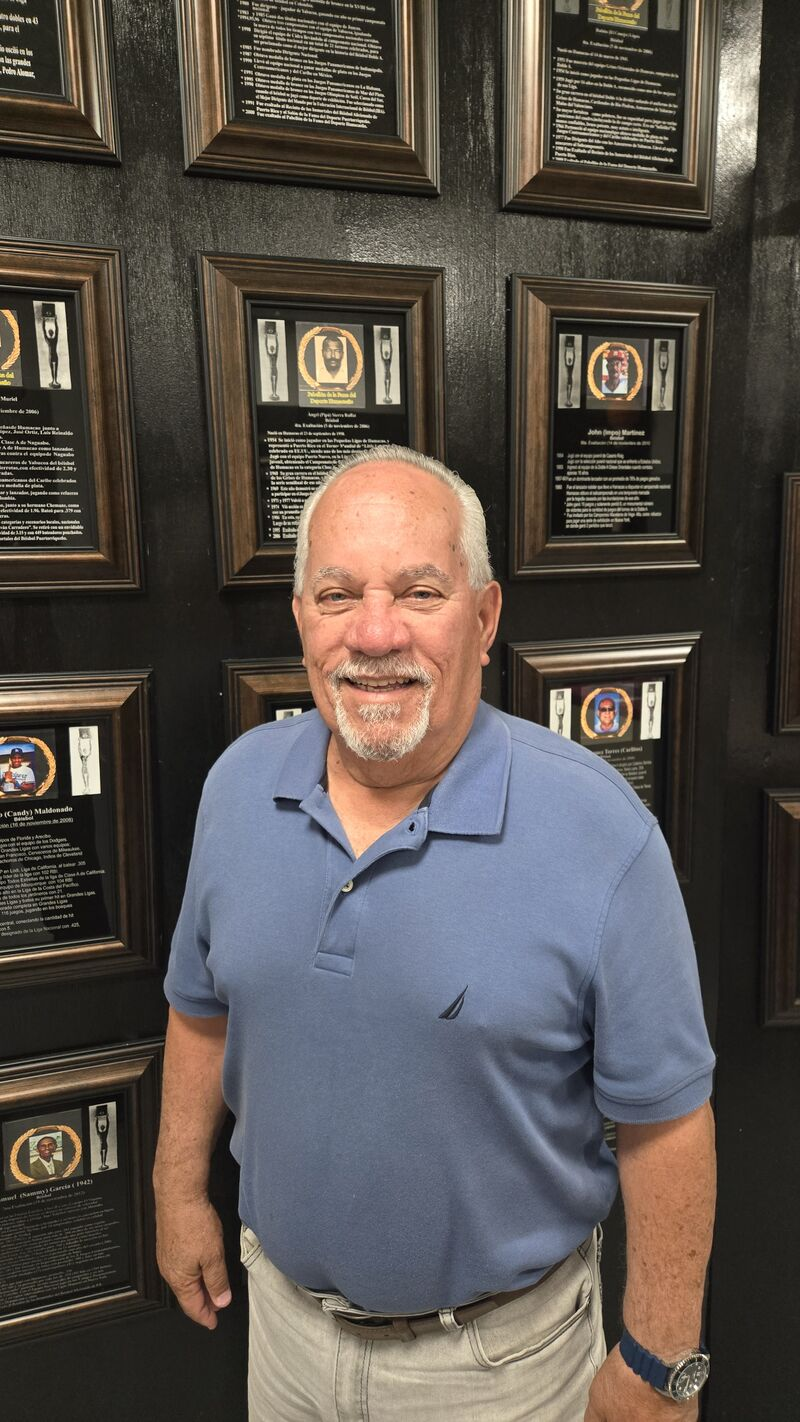
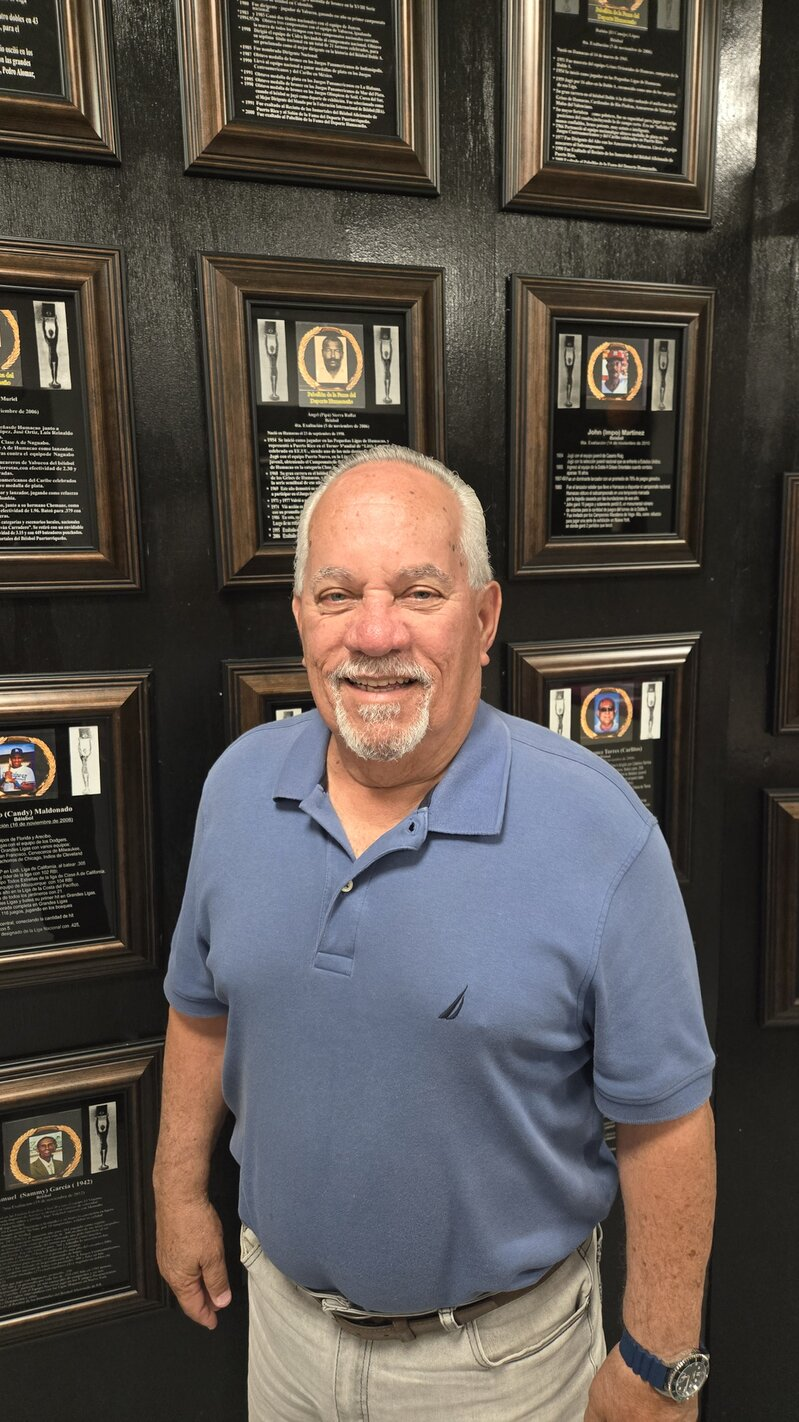
fix: centralized all member's head shot

diff --git a/src/app/junta/page.tsx b/src/app/junta/page.tsx
@@ -31,7 +31,7 @@ const miembrosJunta: MiembroJunta[] = [
       "Líder visionario con amplia experiencia en la gestión deportiva y comunitaria de Humacao.",
     anosServicio: "2016 - Presente",
     foto: "/images/junta/enrique-torres.jpg",
-    fotoPosition: "center 8%",
+    fotoPosition: "center 12%",
     contribuciones: [
       "Modernización de las operaciones del PFDH",
       "Expansión de programas educativos",
@@ -46,7 +46,7 @@ const miembrosJunta: MiembroJunta[] = [
       "Responsable de mantener los registros oficiales y la documentación del pabellón.",
     anosServicio: "2004 - Presente",
     foto: "/images/junta/miriam-lasanta.jpg",
-    fotoPosition: "center 55%",
+    fotoPosition: "center 58%",
     contribuciones: [
       "Coordinación de eventos especiales",
       "Desarrollo de programas educativos",
@@ -61,6 +61,7 @@ const miembrosJunta: MiembroJunta[] = [
       "Historiador y cronista del deporte humacaeño, custodio de la memoria deportiva.",
     anosServicio: "1999 - Presente",
     foto: "/images/junta/felix-baez.jpg",
+    fotoPosition: "center 5%",
     contribuciones: [
       "Fundador y miembro original de la primera junta",
       "Autor de múltiples investigaciones deportivas",
@@ -75,7 +76,7 @@ const miembrosJunta: MiembroJunta[] = [
       "Administrador financiero responsable de la gestión económica del pabellón.",
     anosServicio: "1999 - Presente",
     foto: "/images/junta/juan-velazquez.jpg",
-    fotoPosition: "center 8%",
+    fotoPosition: "center 10%",
     contribuciones: [
       "Miembro fundador de la primera junta directiva",
       "Gestión financiera transparente",
@@ -119,7 +120,7 @@ const miembrosJunta: MiembroJunta[] = [
       "Miembro joven con enfoque analítico en la investigación y documentación estadística del deporte humacaeño.",
     anosServicio: "2026 - Presente",
     foto: "/images/junta/orlando-lopez.jpg",
-    fotoPosition: "center 50%",
+    fotoPosition: "center 52%",
     contribuciones: [
       "Análisis estadístico del rendimiento deportivo",
       "Investigación y documentación de récords históricos",
@@ -134,7 +135,7 @@ const miembrosJunta: MiembroJunta[] = [
       "Historiador y educador, curador del Museo Manuel Rivera Guevara.",
     anosServicio: "1999 - Presente",
     foto: "/images/junta/luis-alvarez.jpg",
-    fotoPosition: "center 40%",
+    fotoPosition: "center 45%",
     contribuciones: [
       "Miembro fundador y educador distinguido",
       "Curación del museo y exhibiciones",
